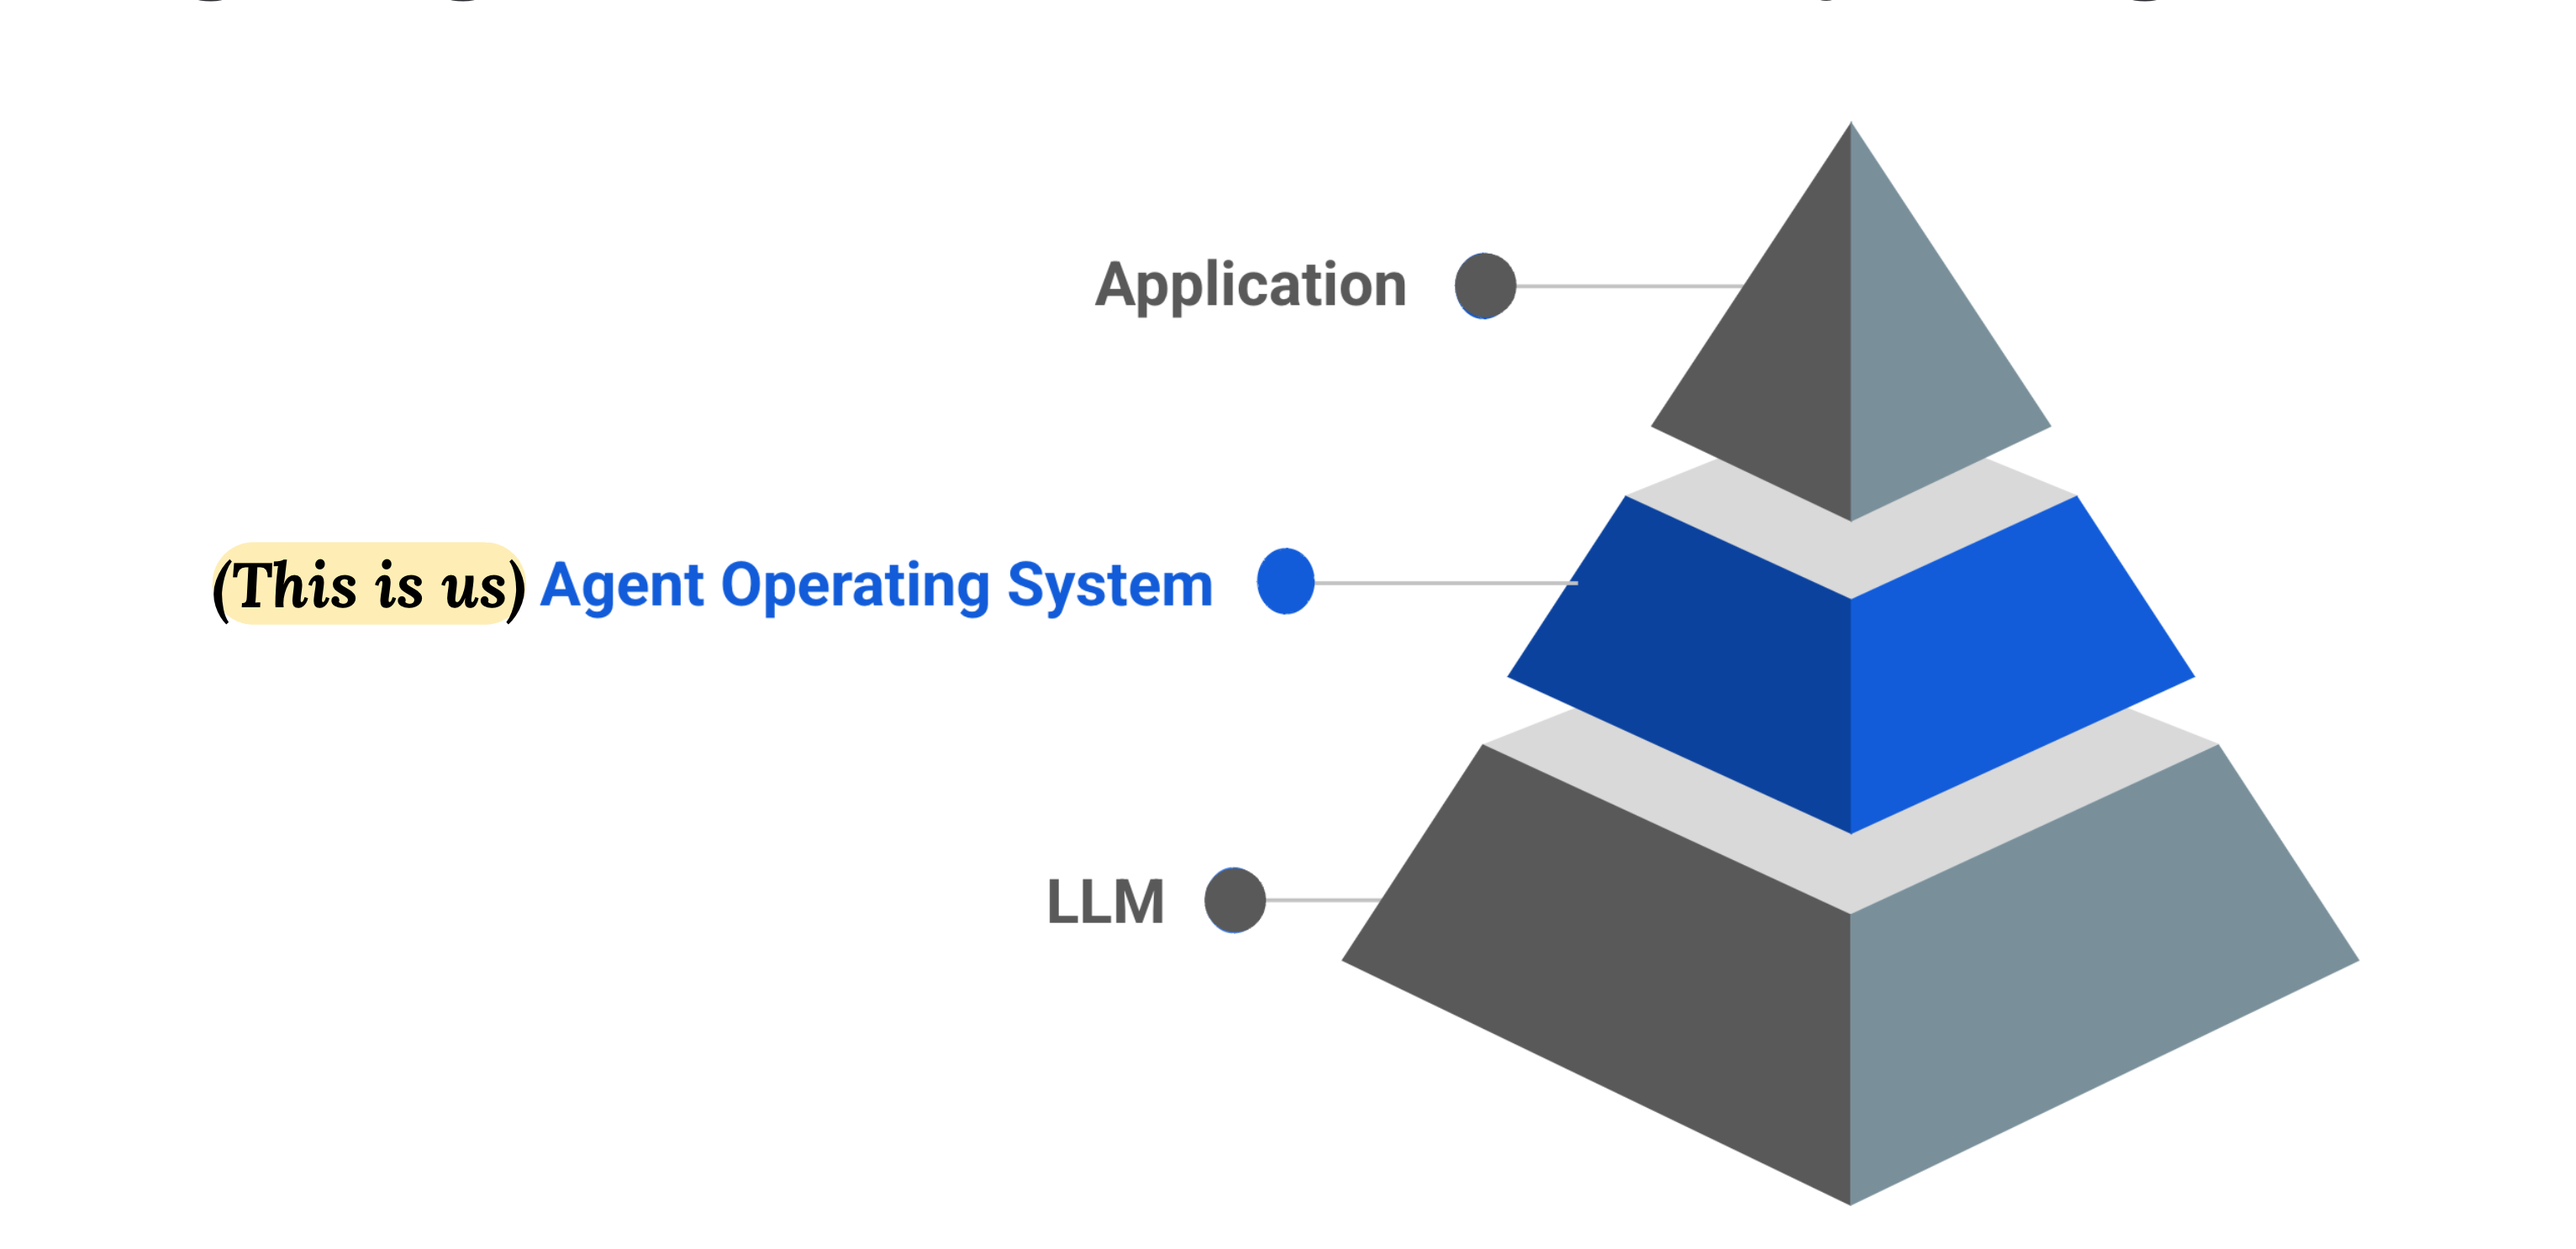
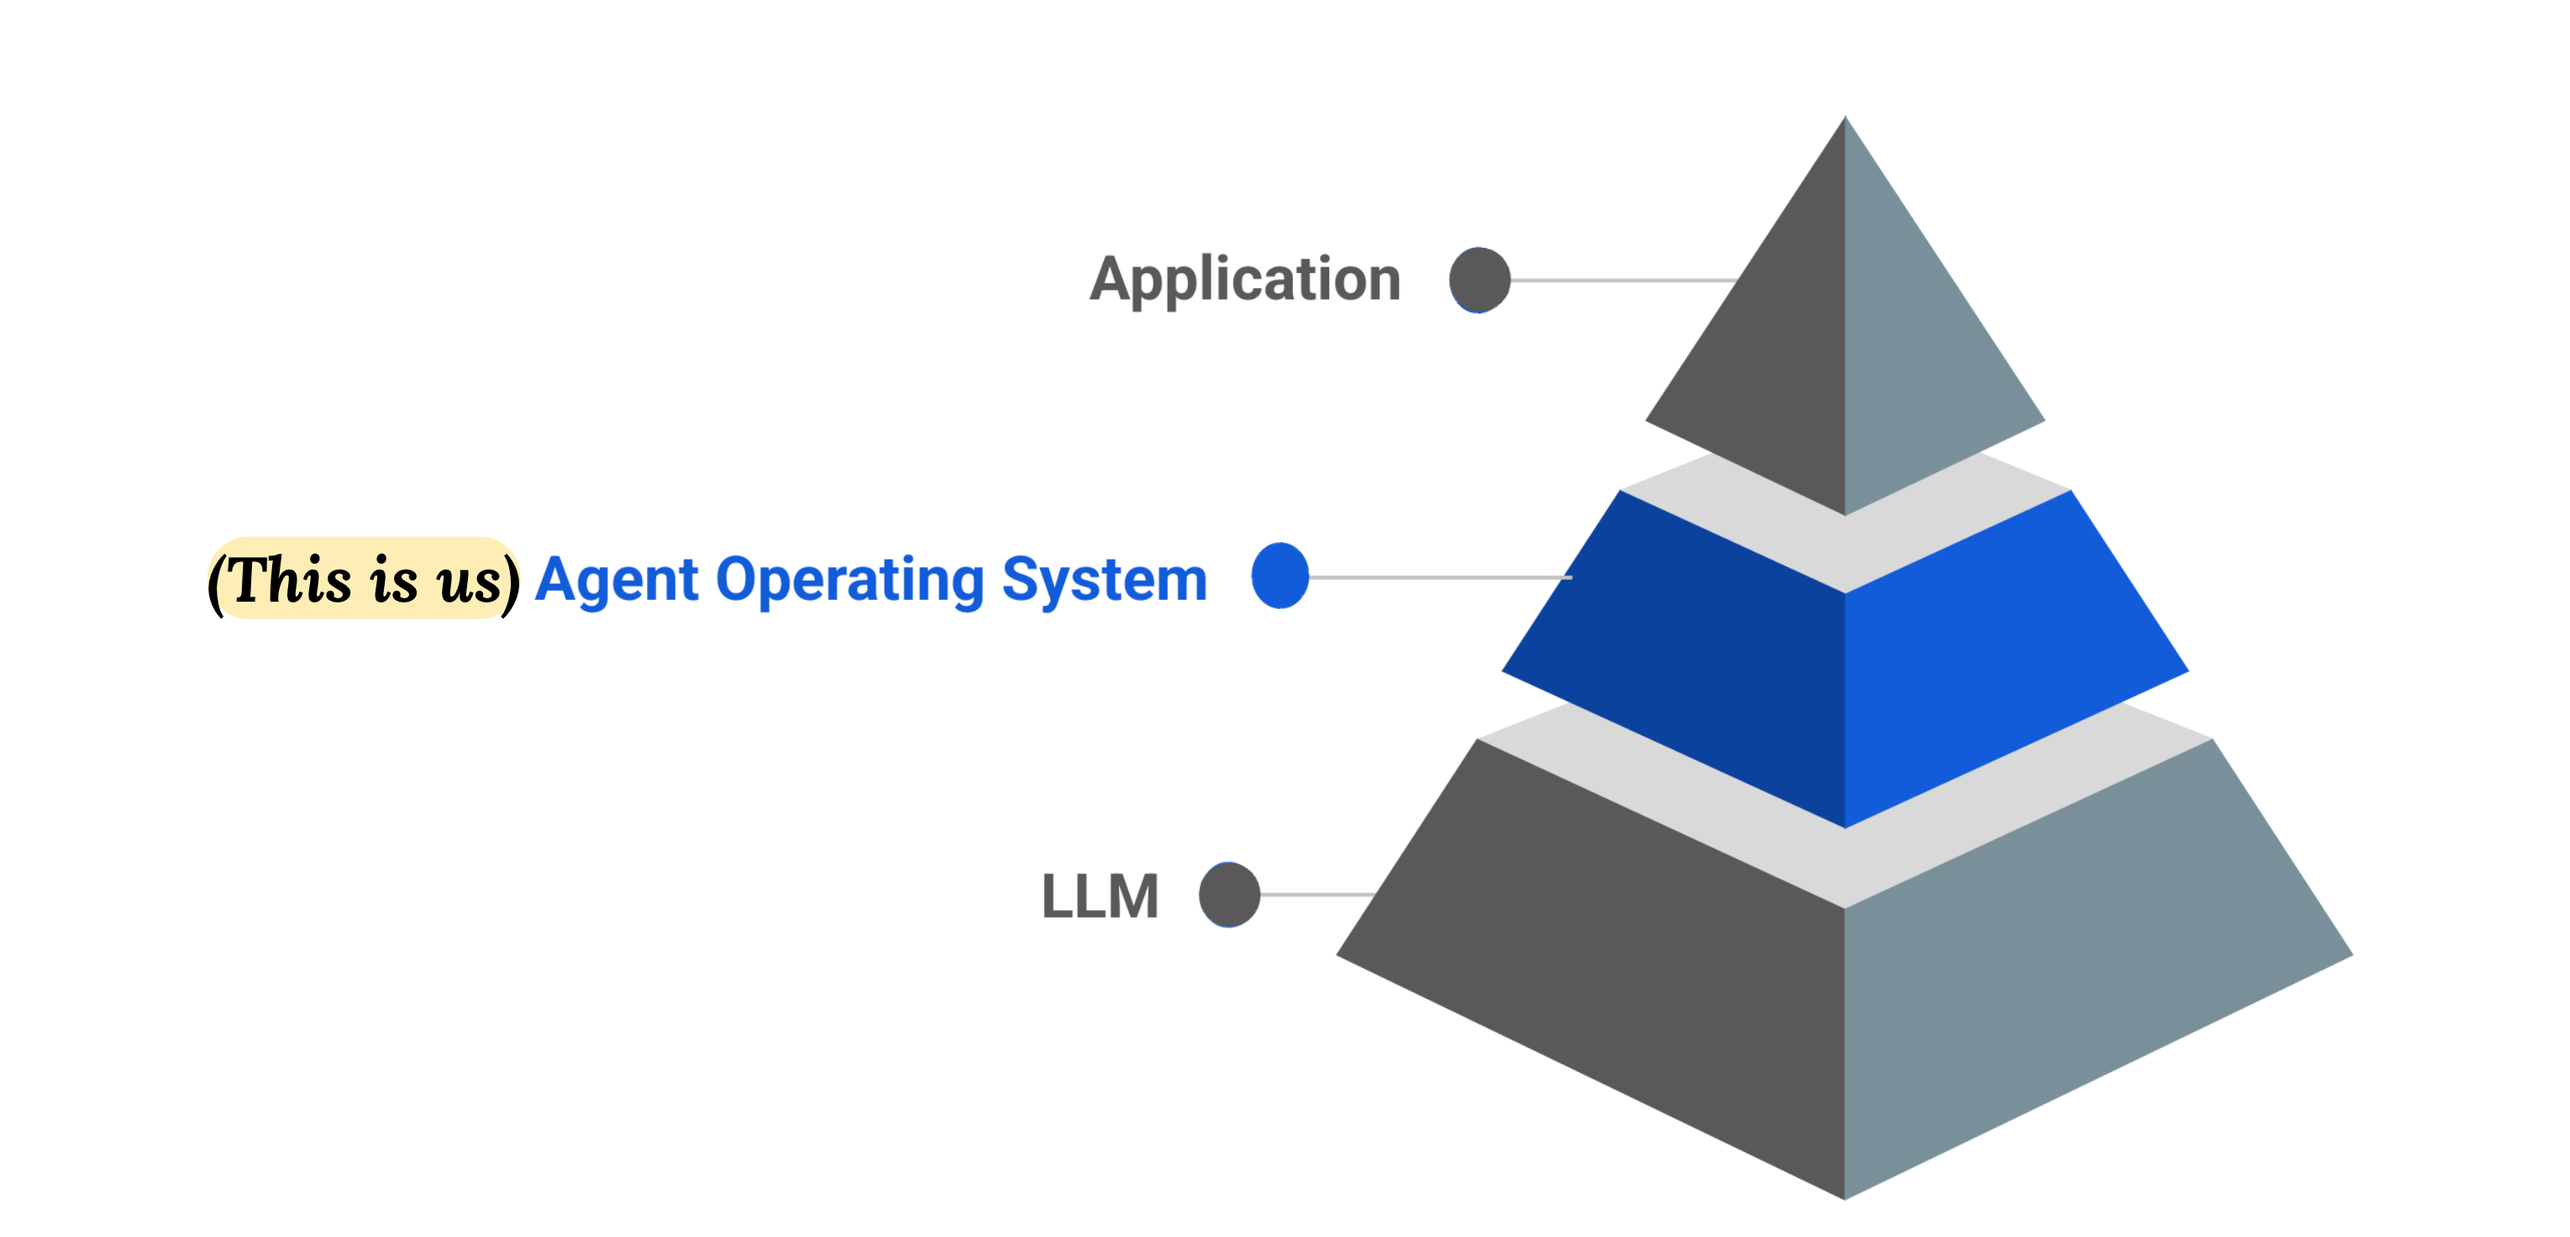
removed shadow and fixed the outline issue with about image

diff --git a/index.html b/index.html
@@ -99,7 +99,7 @@
   
       <!-- Image -->
       <div class="md:w-1/2">
-        <img src="./web_icons/Braingnosis Theme.png" alt="BrainGnosis Illustration" class="w-full rounded-lg shadow-md">
+        <img src="./web_icons/Braingnosis Theme.png" alt="BrainGnosis Illustration" class="w-full rounded-lg">
       </div>
     </div>
   </section>
